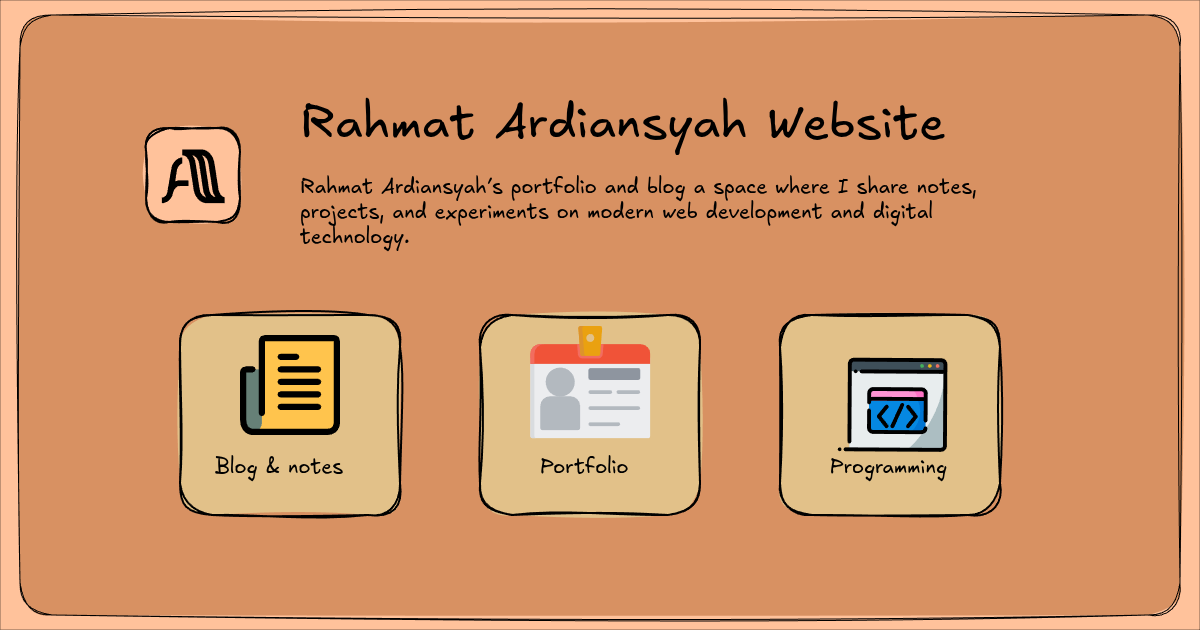
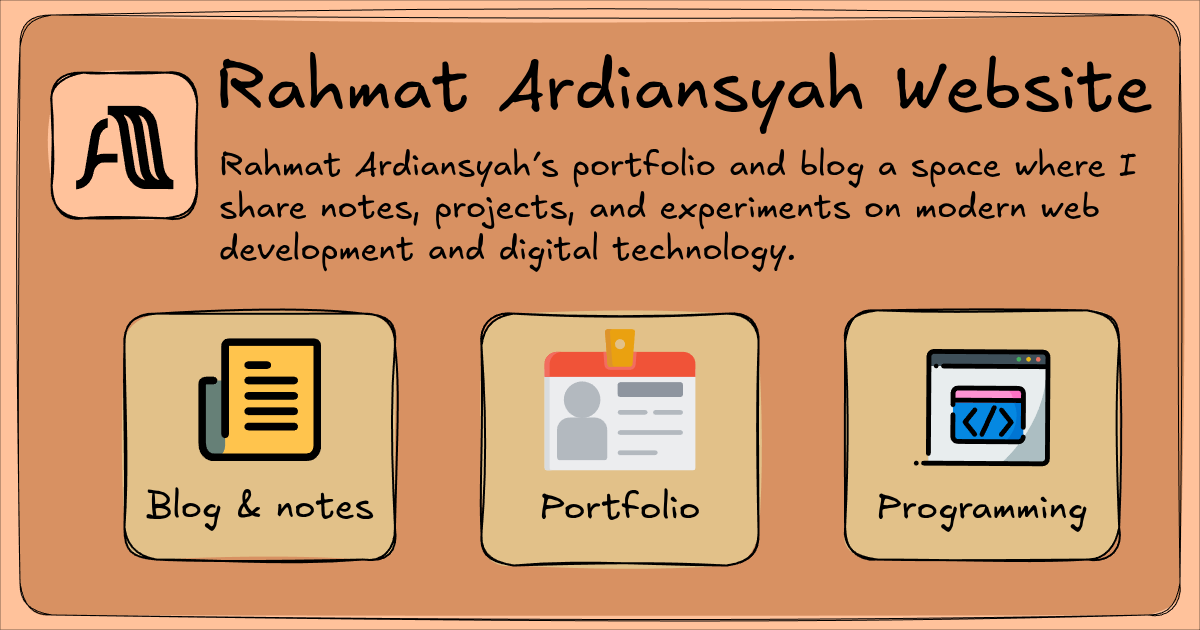
fix: increase font size open graph
- change title page and description

diff --git a/src/app/work/page.jsx b/src/app/work/page.jsx
@@ -4,6 +4,24 @@ import { Button } from "@/components/ui/button";
 import { getAllStaticJSON } from "@/lib/public-static";
 import Link from "next/link";
 
+export const metadata = {
+  title: "Proyek dan Eksperimen Rahmat Ardiansyah",
+  description:
+    "Kumpulan proyek dan eksperimen pribadi yang mengeksplorasi ide melalui desain, kode, dan tulisan. Setiap karya mencerminkan rasa ingin tahu, pembelajaran berkelanjutan, serta eksplorasi praktis di dunia web dan teknologi digital.",
+  keywords: [
+    "Rahmat Ardiansyah",
+    "Projects",
+    "Works",
+    "Portofolio",
+    "Eksperimen",
+    "Pengembangan Web",
+    "Frontend Developer",
+    "Desain Web",
+    "Teknologi Digital",
+    "Kreativitas"
+  ]
+};
+
 export default function WorkPage() {
   const { data } = getAllStaticJSON().find(({ slug }) => slug === "Projects");
 

diff --git a/src/app/layout.jsx b/src/app/layout.jsx
@@ -20,9 +20,9 @@ const jetbrainsMono = JetBrains_Mono({
 
 export const metadata = {
   metadataBase: new URL(process.env.NEXT_PUBLIC_BASE_URL),
-  title: "Rahmat Ardiansyah Website",
+  title: "Rahmat Ardiansyah",
   description:
-    "Portofolio dan blog Rahmat Ardiansyah - tempat saya berbagi catatan, proyek, dan eksperimen seputar pengembangan web modern serta teknologi digital.",
+    "Portofolio dan blog Rahmat Ardiansyah, tempat berbagi catatan, proyek, dan eksperimen seputar pengembangan web modern, teknologi digital, dan produktivitas kreatif.",
   keywords: [
     "Rahmat Ardiansyah",
     "Rahmat",

diff --git a/src/app/posts/page.jsx b/src/app/posts/page.jsx
@@ -4,7 +4,7 @@ import { NotesPosts } from "@/components/public/NotesPosts";
 import { getAllBlogPosts, getAllNotesPosts } from "@/lib/public-content";
 
 export const metadata = {
-  title: "Blog dan catatan Rahmat Ardiansyah",
+  title: "Blog dan Catatan Rahmat Ardiansyah",
   description:
     "Kumpulan tulisan, catatan, dan mindmap dari Rahmat Ardiansyah. Menelusuri proses berpikir, eksperimen ide, dan pembelajaran seputar pengembangan web serta teknologi digital.",
   keywords: [

diff --git a/src/app/posts/blog/[slug]/page.jsx b/src/app/posts/blog/[slug]/page.jsx
@@ -17,9 +17,7 @@ export async function generateMetadata({ params }) {
       .slice(0, 160);
 
   return {
-    title: {
-      absolute: detail.title
-    },
+    title: detail.title,
     description: description,
     keywords: detail.frontmatter.tags
   };

diff --git a/src/app/posts/notes/[type]/[slug]/page.jsx b/src/app/posts/notes/[type]/[slug]/page.jsx
@@ -17,9 +17,7 @@ export async function generateMetadata({ params }) {
       .slice(0, 160);
 
   return {
-    title: {
-      absolute: detail.title
-    },
+    title: detail.title,
     description: description,
     keywords: detail.frontmatter.tags
   };
